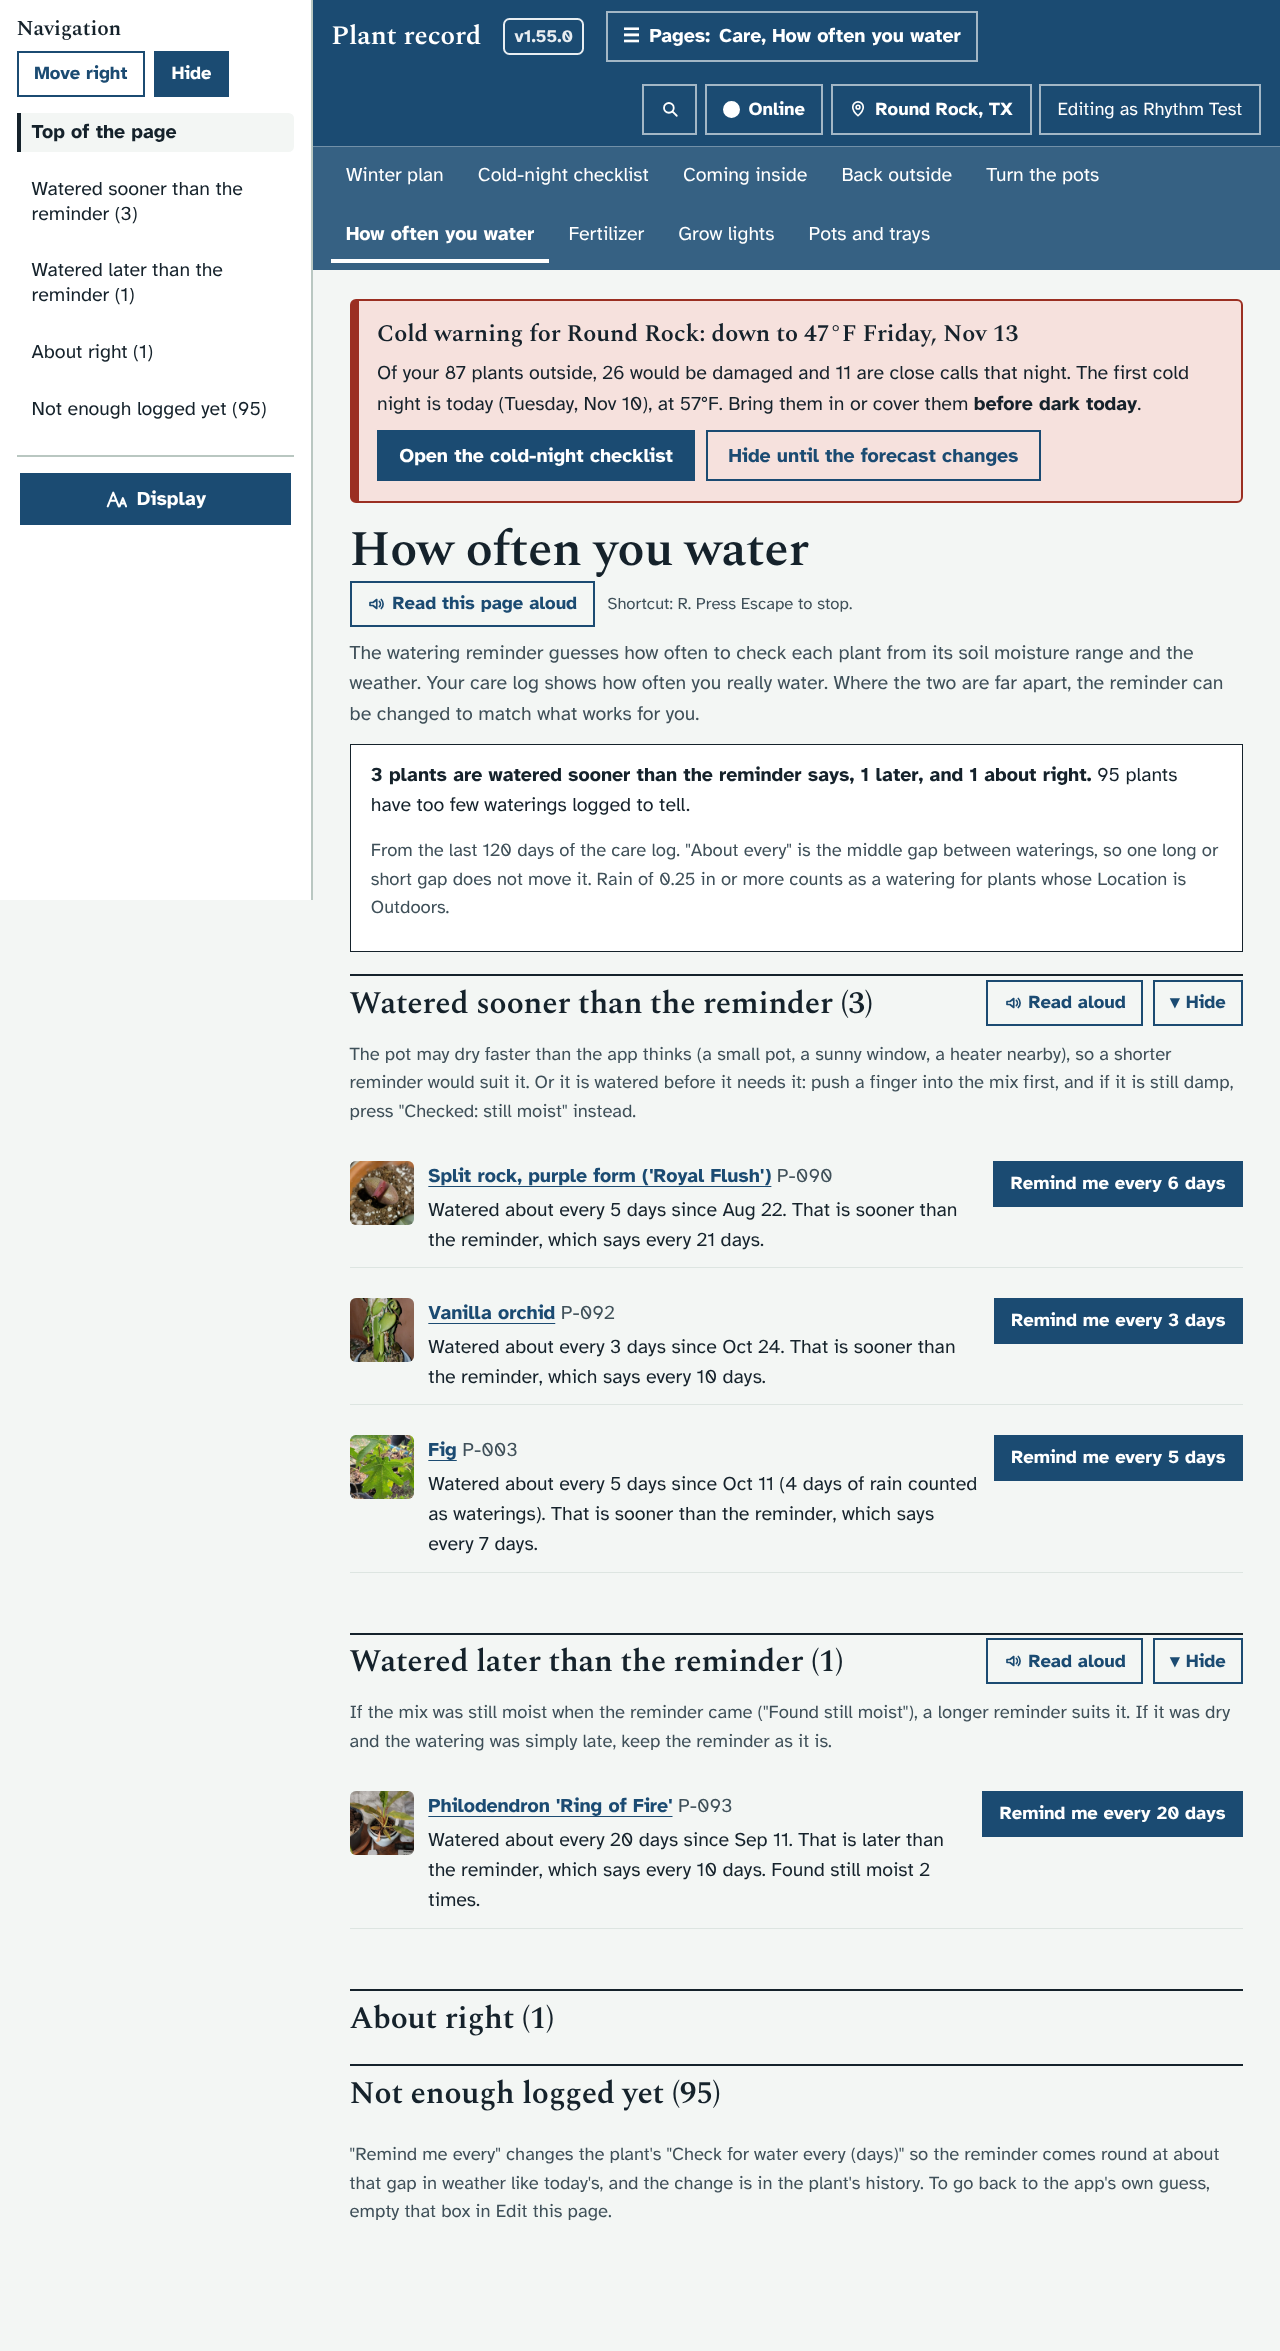
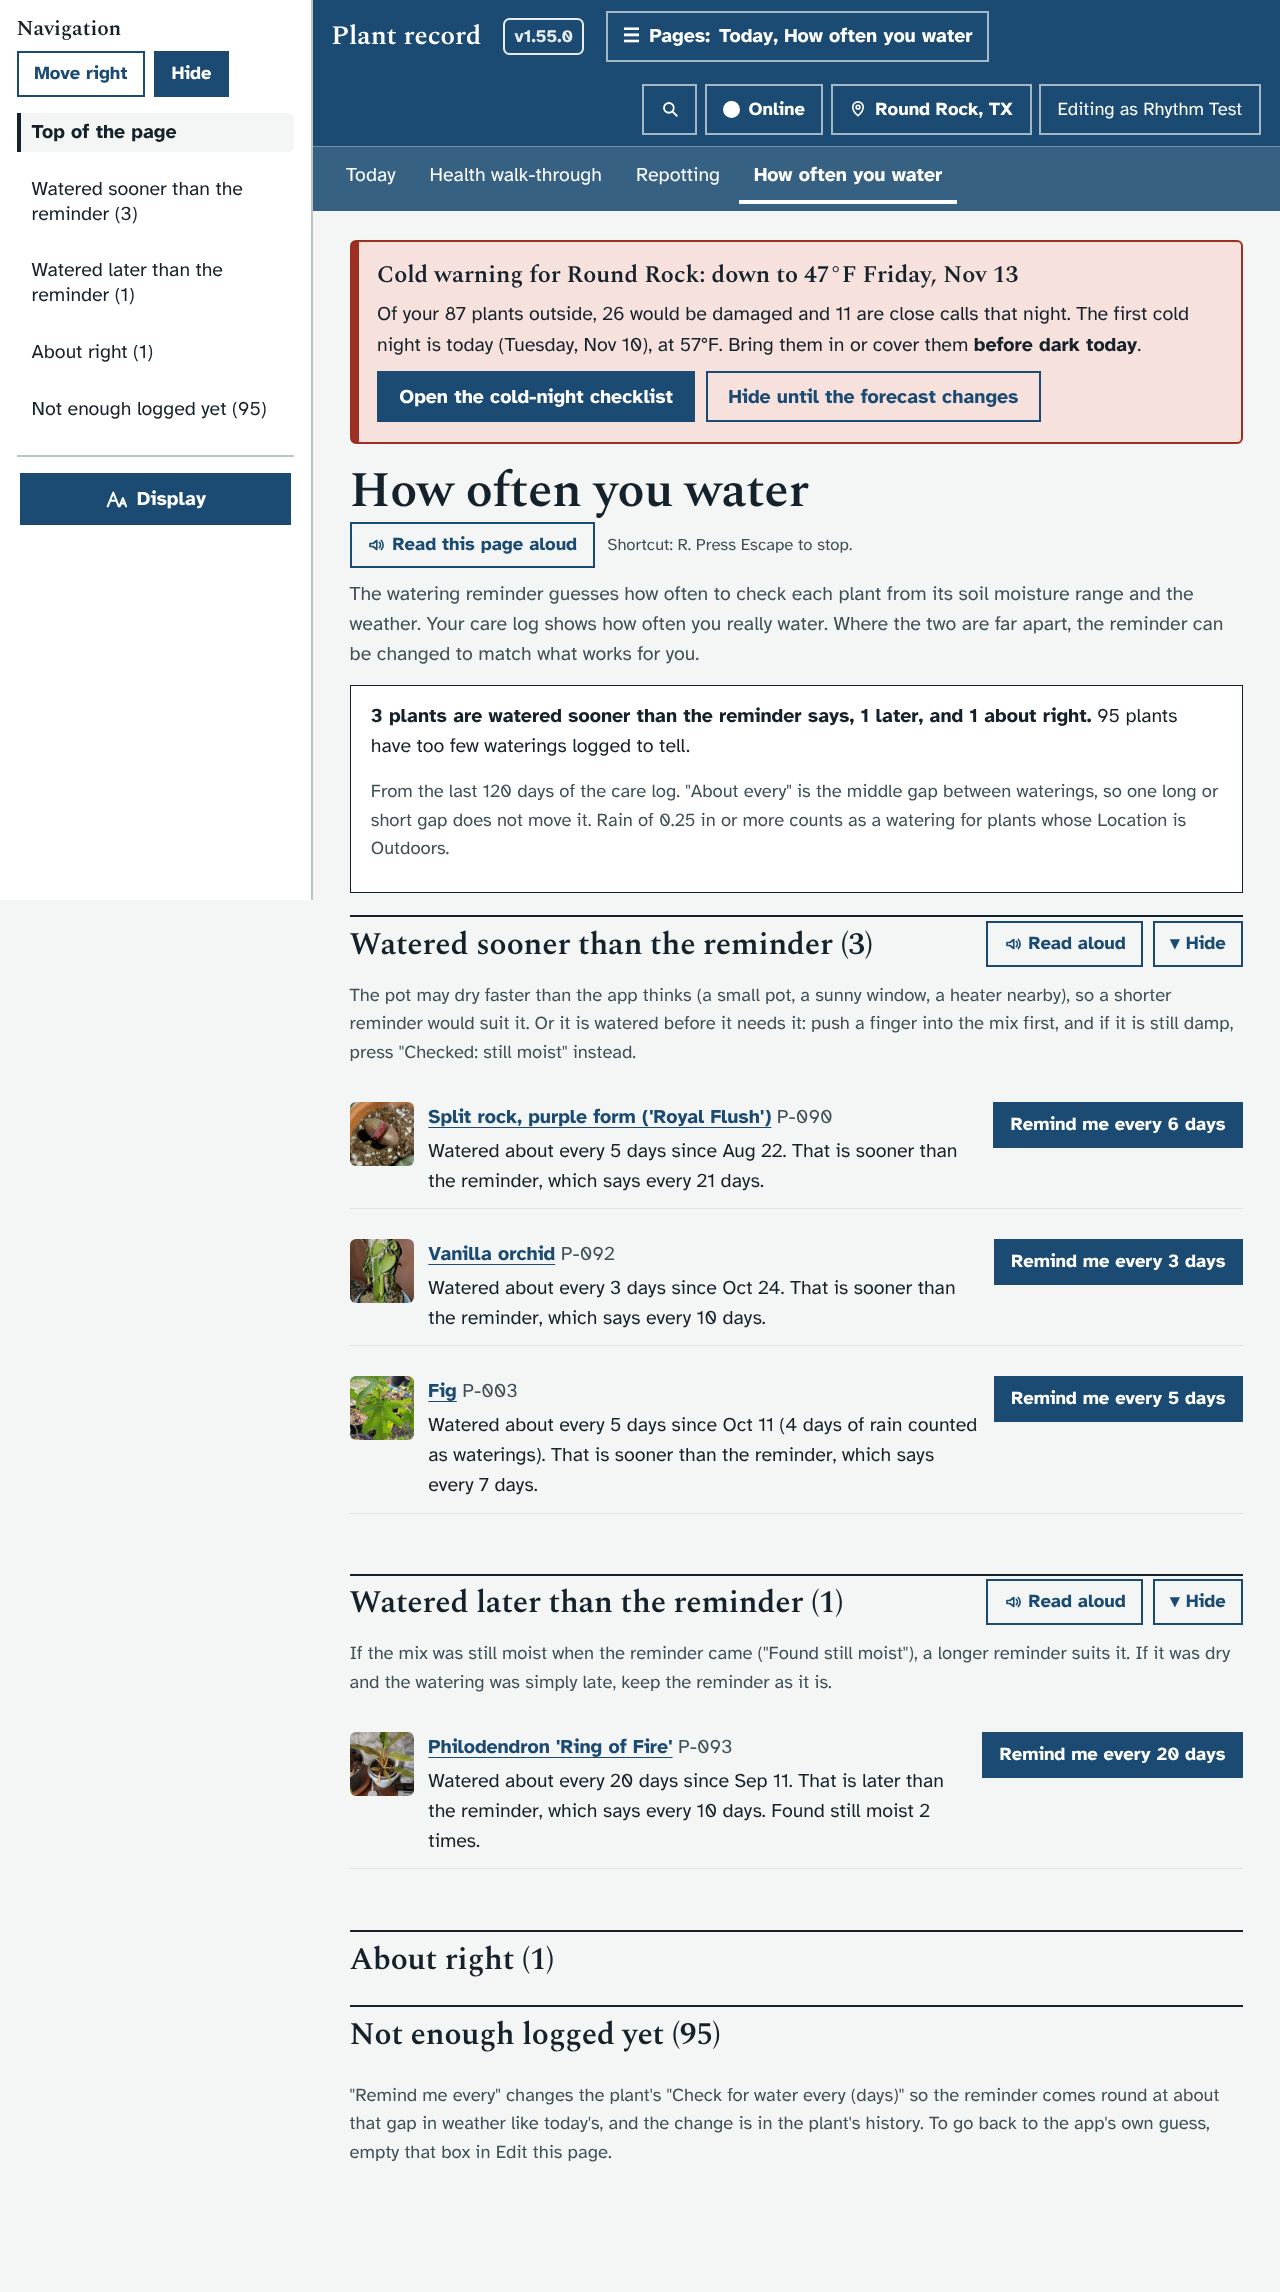
How often you water: move the page to the Today row
A ninth page in the Care row made the top bar two rows tall at 1280 px, which
turned off the sticky title and table on Grow lights (lights check, browser 1/4).
The rhythm check now also checks that the bar stays short on Today and Grow lights.

Claude-Session: https://claude.ai/code/session_01Utgyt96ZQnSCk7nYs5BiP7

diff --git a/app/static/js/rhythm.js b/app/static/js/rhythm.js
@@ -2,7 +2,7 @@
    share one scope. Plain JavaScript, no inline handlers (the server's content policy forbids them).
 
    The watering reminder guesses a gap from the plant's soil moisture range and the weather. The care log knows what really happens.
-   This compares the two: the page #/rhythm (Care) lists the plants watered well before or well after their reminder, and a plant's
+   This compares the two: the page #/rhythm (in the Today section) lists the plants watered well before or well after their reminder, and a plant's
    own page says how often it has been watered, both with a button that makes the reminder match. Nothing new is stored: the button
    changes the plant's "Check for water every (days)" (PUT /api/rhythm), with Undo. */
 'use strict';
@@ -96,12 +96,13 @@ Object.assign(acts, {
   },
 });
 // What this module adds (features.js):
-//  - the page #/rhythm under Care, after Turn the pots;
+//  - the page #/rhythm in the Today section, after Repotting (the Care row is full: one more page there makes the top bar two rows
+//    tall on a laptop, and Grow lights then loses its sticky title);
 //  - on a plant's own page, a line inside the Watering box saying how often it has really been watered, with the button.
 //    It draws again whenever the care part does (care: true), so pressing "Watered today" updates it.
 addFeature({
   name: 'rhythm',
-  pages: { rhythm: { view: viewRhythm, nav: 'rhythm', section: 'care', label: 'How often you water', href: '#/rhythm', after: 'turning' } },
+  pages: { rhythm: { view: viewRhythm, nav: 'rhythm', section: 'today', label: 'How often you water', href: '#/rhythm', after: 'repotting' } },
   adds: {
     id: 'rh-plant', care: true,
     match: parts => parts[0] === 'plant' && parts[1] && parts[2] !== 'edit',

diff --git a/dev/test/rhythm_check.py b/dev/test/rhythm_check.py
@@ -1,6 +1,6 @@
 """Checks the prototype "How often you water" (proto/water-rhythm): the gaps between waterings in the care log against the watering
 reminder, rain counted for plants out in the open, the button that makes the reminder match (with Undo), viewers refused, the page
-under Care and the line on a plant's page, at laptop and phone width, light and dark, with large text.
+in the Today section and the line on a plant's page, at laptop and phone width, light and dark, with large text.
 Start the mock server with a fresh data folder (MOCK_TS=1), then:  python3 dev/test/rhythm_check.py
 Screenshots: dev/tmp/shots/rhythm-*.png"""
 import json, os, sys, urllib.error, urllib.request
@@ -82,8 +82,12 @@ with sync_playwright() as p:
     pg.on('pageerror', lambda e: errs.append(str(e)))
     pg.add_init_script("localStorage.setItem('plantdb.editor','Rhythm Test')")
     pg.goto(BASE + '/#/rhythm'); pg.wait_for_selector('#rh-often')
-    check(pg.locator('nav a[href="#/rhythm"], #app a[href="#/rhythm"], header a[href="#/rhythm"]').count() >= 1 or 'How often you water' in pg.content(),
-          'the page is in the Care section')
+    check(pg.evaluate("SECTIONS.find(s => s[0] === 'today')[2].some(p => p[0] === 'rhythm') && !SECTIONS.find(s => s[0] === 'care')[2].some(p => p[0] === 'rhythm')"),
+          'the page is in the Today section (the Care row is full)')
+    for path in ('/#/', '/#/lights'):         # a ninth page in the Care row made the bar two rows tall there, and Grow lights lost its sticky title
+        pg.goto(BASE + path); pg.wait_for_timeout(1500)
+        check(pg.evaluate("document.documentElement.dataset.toptall") == '0', f'{path}: the top bar stays short enough to stay at the top on a laptop')
+    pg.goto(BASE + '/#/rhythm'); pg.wait_for_selector('#rh-often')
     C = R()['counts']
     check(pg.inner_text('#rh-often h2') == f'Watered sooner than the reminder ({C["often"]})' and pg.inner_text('#rh-seldom h2') == f'Watered later than the reminder ({C["seldom"]})'
           and pg.locator(f'#rh-often .job[data-code="{a}"]').count() == 1 and pg.locator(f'#rh-seldom .job[data-code="{b}"]').count() == 1,

diff --git a/docs/ARCHITECTURE.md b/docs/ARCHITECTURE.md
@@ -318,7 +318,7 @@
 
 ## How often you water (prototype proto/water-rhythm)
 - `app/plantdb/rhythm.py` (ORDER 60; imports `water_base_days`, `water_factor`, `water_weather`, `RAIN_COUNTS_IN` from care.py). `rhythm_report(c, code=None)`: for active plants at the place in use (or one code), the days of `water`/`prep_soak`/`prep_repot` entries in the last `RHYTHM_WINDOW` (120) days, plus rain days (`rhythm_rain()`, weather_daily at `location(c)`) from the plant's first logged watering for Outdoors plants; gaps over `RHYTHM_MAX_GAP` (45) dropped; with `RHYTHM_MIN_GAPS` (3) or more, `gap` = the median and `state` = `rhythm_state(gap, every)` (`often` / `seldom` / `matches`; needs 25% and 2 days apart), else `few`. `every` is computed the same way `water_report()` does. `rhythm_setting_for(n, f)` picks the `water_every_days` whose `round(base * f)` lands nearest n. `GET /api/rhythm[?plant=]`; `PUT /api/rhythm {plant, every: N | null}` or `{plant, setting}` (Undo) changes `water_every_days` through `apply_changes()` (version, audit). Nothing new is stored and there is no schema change.
-- `js/rhythm.js`: page `rhythm` (Care, after Turn the pots) and the add `rh-plant` (care: true) inside `#care-plant .verdict-box`; acts `rhset`, `rhclear`, Undo through `careUndoToast(msg, fn)`. Styles `css/rhythm.css` (with its viewer block). Checks: `dev/test/unit/test_rhythm.py`, `dev/test/rhythm_check.py`.
+- `js/rhythm.js`: page `rhythm` (Today section, after Repotting; the Care row is full at 1280 px and one more page there makes the top bar too tall to stay put) and the add `rh-plant` (care: true) inside `#care-plant .verdict-box`; acts `rhset`, `rhclear`, Undo through `careUndoToast(msg, fn)`. Styles `css/rhythm.css` (with its viewer block). Checks: `dev/test/unit/test_rhythm.py`, `dev/test/rhythm_check.py`.
 
 ## Identify in two modes (1.51.0, PLAN.md step 5b)
 - `vision/service.py`: `/identify?mode=mine|new&country=CC`. `MODES` says which lifts each mode may use: `mine` = own_sp, own_gen, house, state, looks (as 1.39.0); `new` = state and `country`. `prior_why(i, scope, mode, C)` and `prior_bonus()`; the country lift is `PRIOR['country']` (1.0) times a weight that grows with the species' occurrence count (`log10(n+1)/3`, capped at 1). `country(cc)` returns the entry for a two-letter code: loaded from `gbif-<CC>.json` in the cache, or `{'state': 'fetching'}` while a background thread runs `gbif_country.fetch_country()` (GBIF occurrence search, `kingdomKey=6`, `facet=scientificName`, 5,000 names a page, `facetMincount=3`, names cut to genus and species); `error` when it failed. The answer carries `mode` and `country: {code, state, species}`; `/status?country=CC` says the list's state. `vision/gbif_country.py` is copied into the image beside `service.py` and can be run by hand.

diff --git a/docs/prototypes/water-rhythm.md b/docs/prototypes/water-rhythm.md
@@ -5,7 +5,7 @@ The watering reminder guesses how often to check each plant from its soil moistu
 
 Your care log already knows the answer: every "Watered today" has a date. This puts the two side by side and lets you make the reminder match with one button.
 
-- **A new page, How often you water** (Care → How often you water, after Turn the pots):
+- **A new page, How often you water** (Today → How often you water, beside Health walk-through and Repotting. It started under Care, but one more page there made the top bar two rows tall on a laptop, which turned off the sticky title on Grow lights):
   - one line saying how many plants are watered sooner than the reminder says, how many later, and how many about right;
   - **Watered sooner than the reminder**: the pot may dry faster than the app thinks, so a shorter reminder would suit it. Or it is being watered before it needs it, so the page suggests the finger test and "Checked: still moist" first;
   - **Watered later than the reminder**: if it was found still moist when the reminder came, a longer reminder suits it;
@@ -48,7 +48,7 @@ Then open http://127.0.0.1:8080/#/rhythm. A fresh test copy has no waterings log
 
 ## Open questions for Ethan
 1. **Rounding indoors.** The app stretches the gap by half for plants indoors and rounds, so an indoor reminder can be 3, 4, 6, 8 or 9 days but never exactly 5 or 7. The button says what you will really get ("Remind me every 6 days" for a plant you water every 5). Should the indoor stretch be dropped for a plant once you have set its gap by hand from this page, so the number you pick is the number you get?
-2. **Today.** Should Today get a short line ("3 plants are watered well before their reminder") with a link here, or is a page under Care enough?
+2. **Today.** Should Today get a short line ("3 plants are watered well before their reminder") with a link here, or is the page in the Today row enough? Or would you rather have it under Care, which needs the Care row tidied first (it is full)?
 3. **Whole groups.** Would a "Make all of these match" button on each list be useful, or do you prefer to decide plant by plant?
 4. **The window.** 120 days mixes summer and autumn. Would you rather it looked at the last 60 days, so the comparison follows the season?
 

diff --git a/README.md b/README.md
@@ -1487,7 +1487,7 @@ A plant by a window grows toward the light and leans. A quarter turn every week 
 
 ## How often you water (prototype)
 
-The watering reminder guesses how often to check each plant from its soil moisture range and the weather. Your care log knows how often you really water. **Care → How often you water** puts the two side by side.
+The watering reminder guesses how often to check each plant from its soil moisture range and the weather. Your care log knows how often you really water. **Today → How often you water** puts the two side by side.
 
 - **Watered sooner than the reminder**, **Watered later than the reminder**, **About right** and **Not enough logged yet** (folded). Each plant says "Watered about every 5 days since Aug 22", what the reminder says, and how many times it was found still moist.
 - **About every** is the middle gap between waterings in the last 120 days, so one odd gap does not move it. A gap of more than 45 days is left out as a time nothing was logged. For a plant whose Location is Outdoors, a day with 0.25 in of rain or more counts as a watering, as it does for the reminder. A pattern needs at least 4 waterings.

diff --git a/CHANGELOG.md b/CHANGELOG.md
@@ -1,7 +1,7 @@
 # Changelog
 
 ## Unreleased: how often you water (prototype proto/water-rhythm)
-- **Care → How often you water** compares each plant's watering reminder with how often your care log says you really water it: watered sooner than the reminder, later, about right, or not enough logged yet. Rain counts for plants outdoors, as it does for the reminder.
+- **Today → How often you water** compares each plant's watering reminder with how often your care log says you really water it: watered sooner than the reminder, later, about right, or not enough logged yet. Rain counts for plants outdoors, as it does for the reminder.
 - **Remind me every N days** makes the reminder match what you do, with Undo. It changes the plant's "Check for water every (days)", so the change is in its history.
 - **On a plant's page**, the Watering box says how often it has been watered, with the recent gaps and the same button.
 
